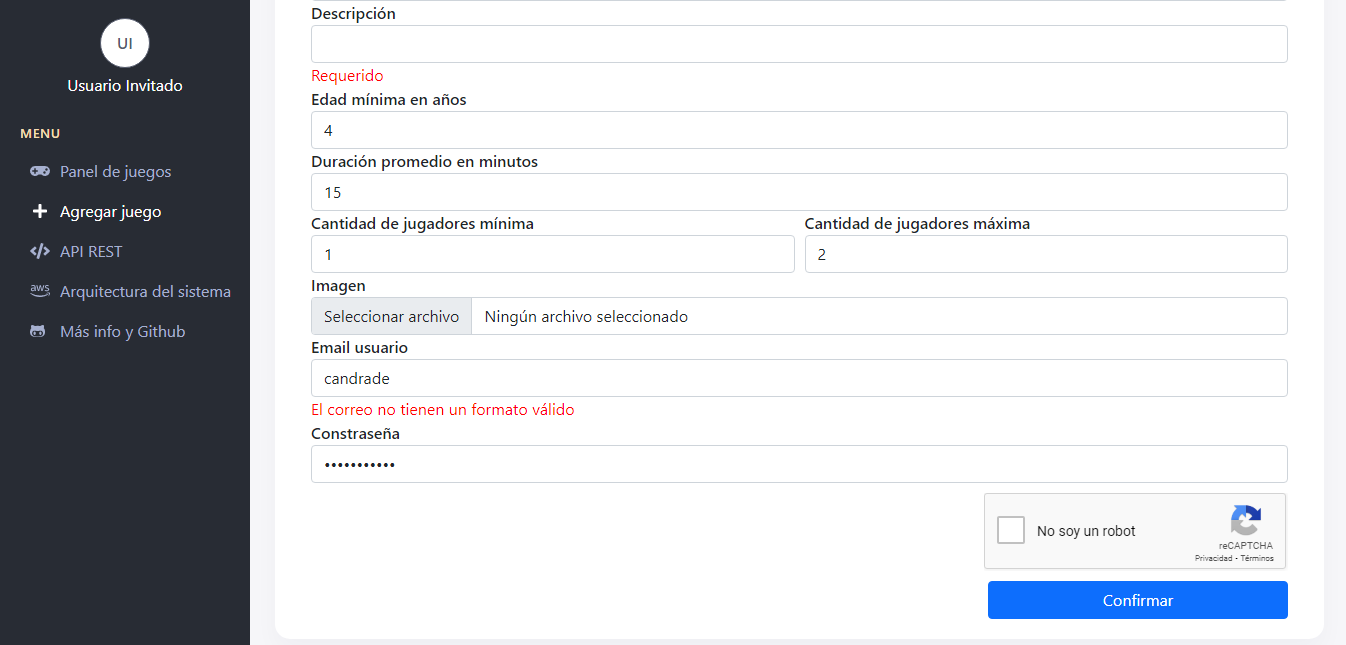
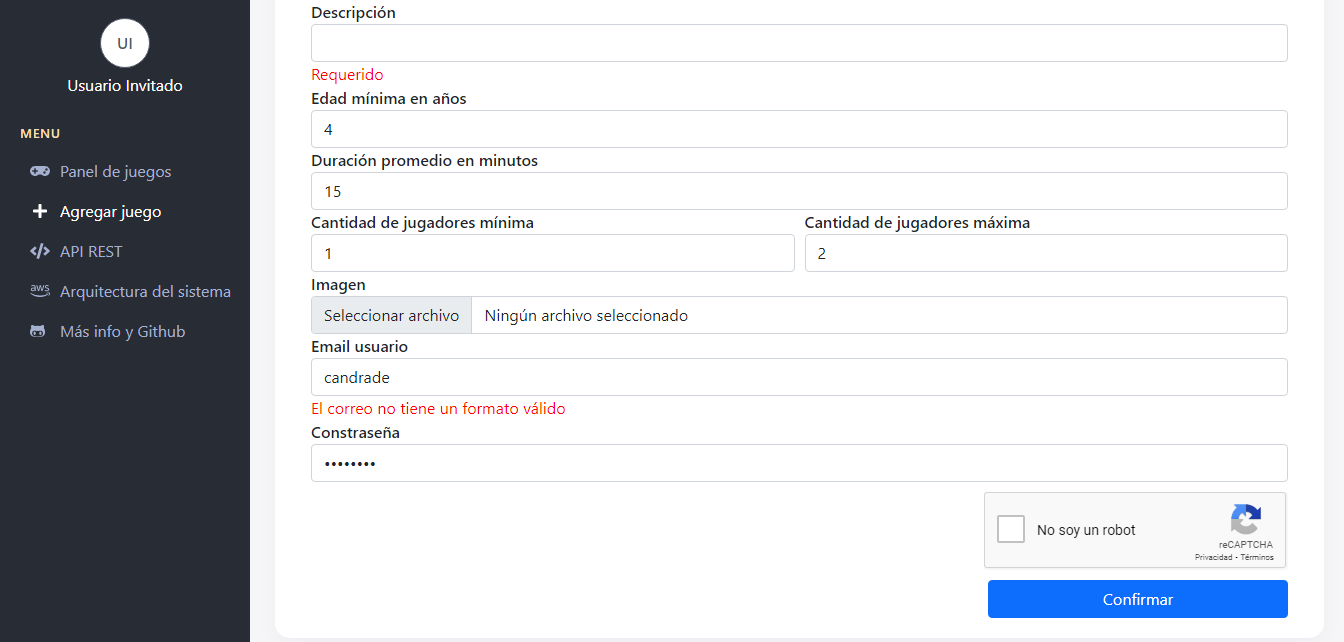
correcciones de texto

diff --git a/src/components/shared/Buscador.tsx b/src/components/shared/Buscador.tsx
@@ -5,6 +5,7 @@ import { useEffect, useState } from "react";
 import { useAutocomplete } from "../../hooks/useAutocomplete";
 import { Juego } from "../../interfaces/autocompleteInterface";
 import { useNavigate } from "react-router-dom";
+import { env } from "process";
 
 export const Buscador = () => {
   const [state, setState] = useState({
@@ -53,7 +54,12 @@ export const Buscador = () => {
   }, [state.valorIngresado]);
 
   return (
-    <form action={`/juego-detallado`} className={styles.formBusqueda}>
+    <form
+      onSubmit={(e) => {
+        e.preventDefault();
+        handleNavigate(state.valorIngresado);
+      }}
+      className={styles.formBusqueda}>
       <span className={styles.spanBusqueda}>
         <FontAwesomeIcon icon={faSearch} className={styles.faSearch} />
       </span>

diff --git a/src/pages/AgregarJuego/AgregaJuego.tsx b/src/pages/AgregarJuego/AgregaJuego.tsx
@@ -137,7 +137,7 @@ export const AgregaJuego = () => {
           return value[0].size <= sizeInBytes;
         }),
       email: Yup.string()
-        .email("El correo no tienen un formato válido")
+        .email("El correo no tiene un formato válido")
         .required("Requerido"),
       password: Yup.string().required("Requerido"),
     }),

diff --git a/src/pages/Juegos/PreviewJuego.tsx b/src/pages/Juegos/PreviewJuego.tsx
@@ -31,7 +31,6 @@ export const PreviewJuego = ({ juego }: { juego: Juego }) => {
           </li>
           <li>Duración aproximada: {juego.duracion} minutos</li>
         </ul>
-        {/* <p className="card-text">descripcion</p> */}
         <a
           className={`${styles.valorar} btn btn-light`}
           onClick={handleNavigate}>
